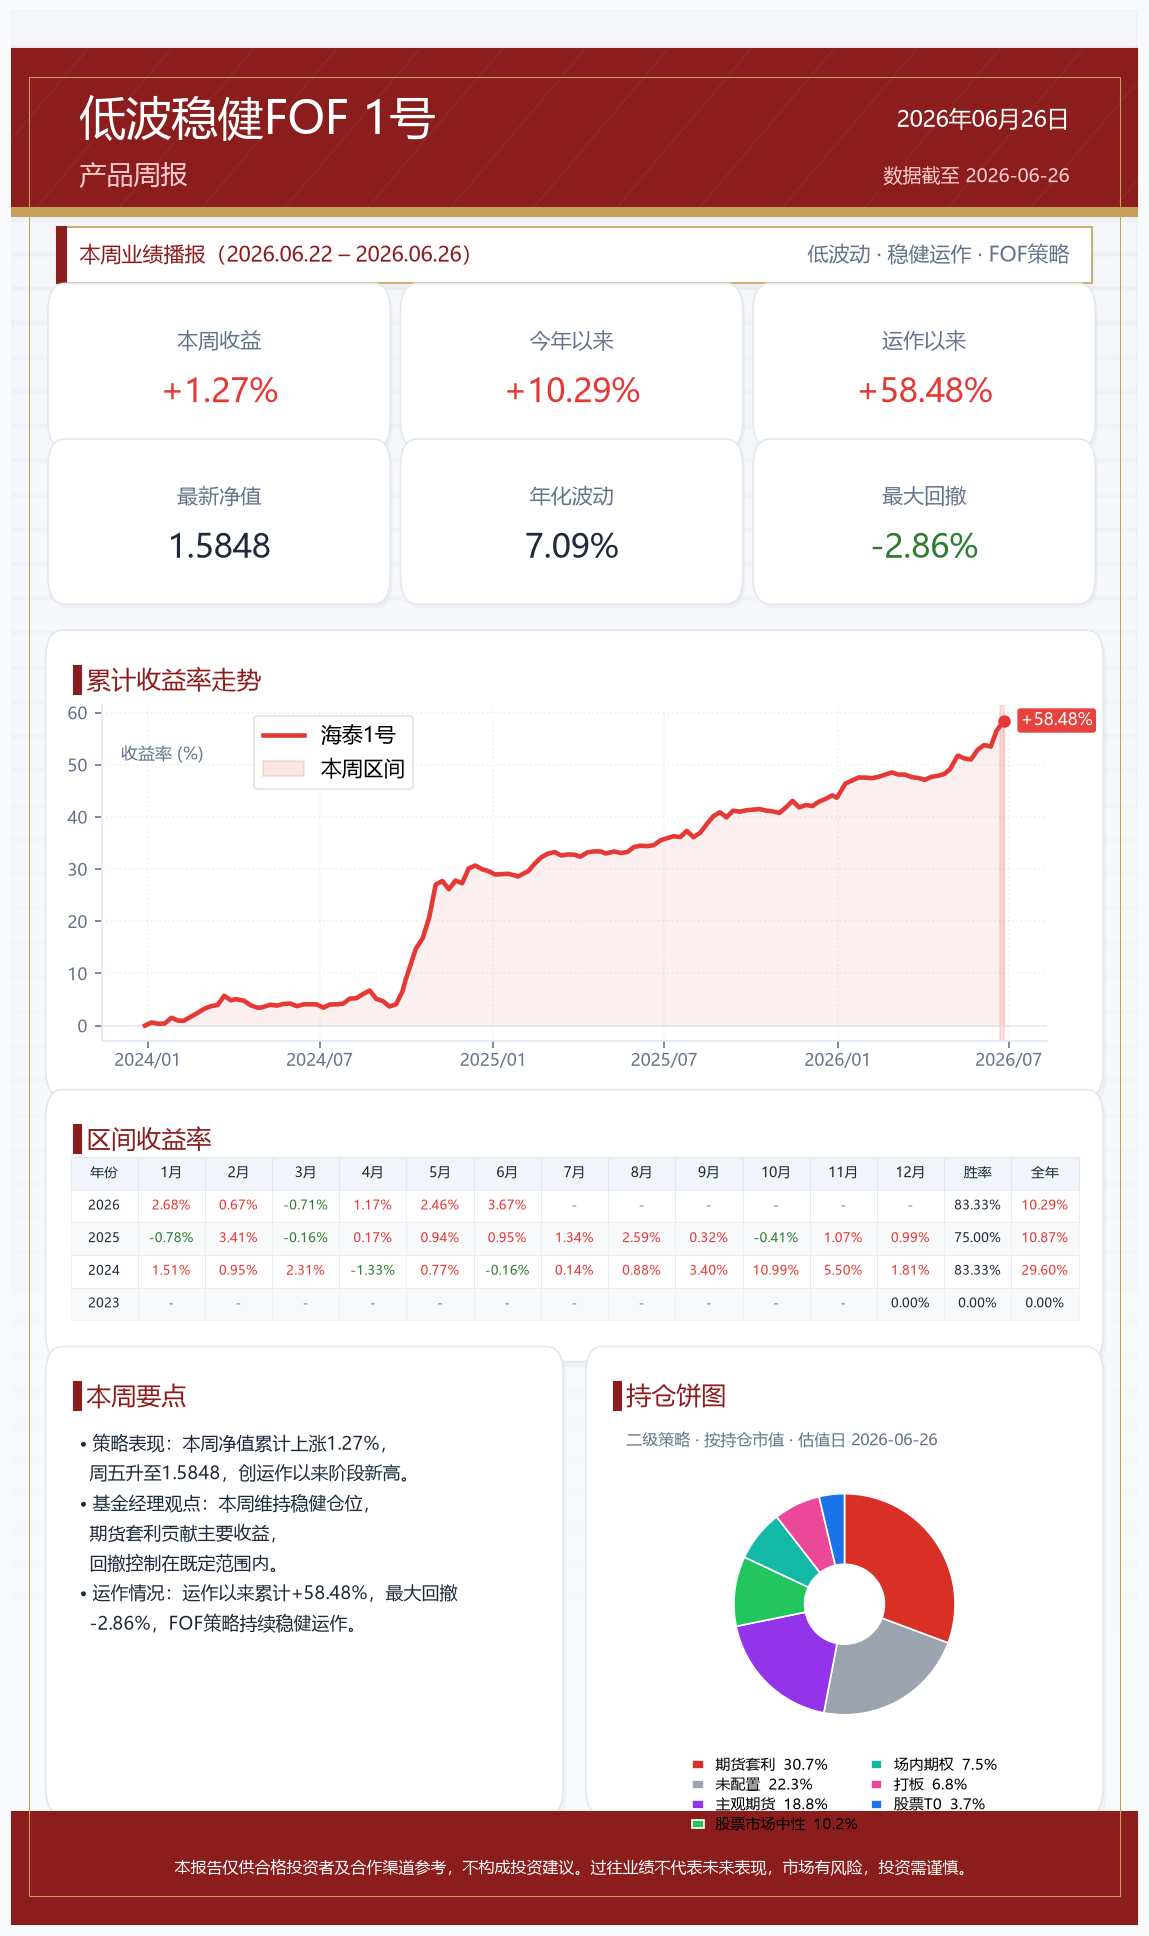
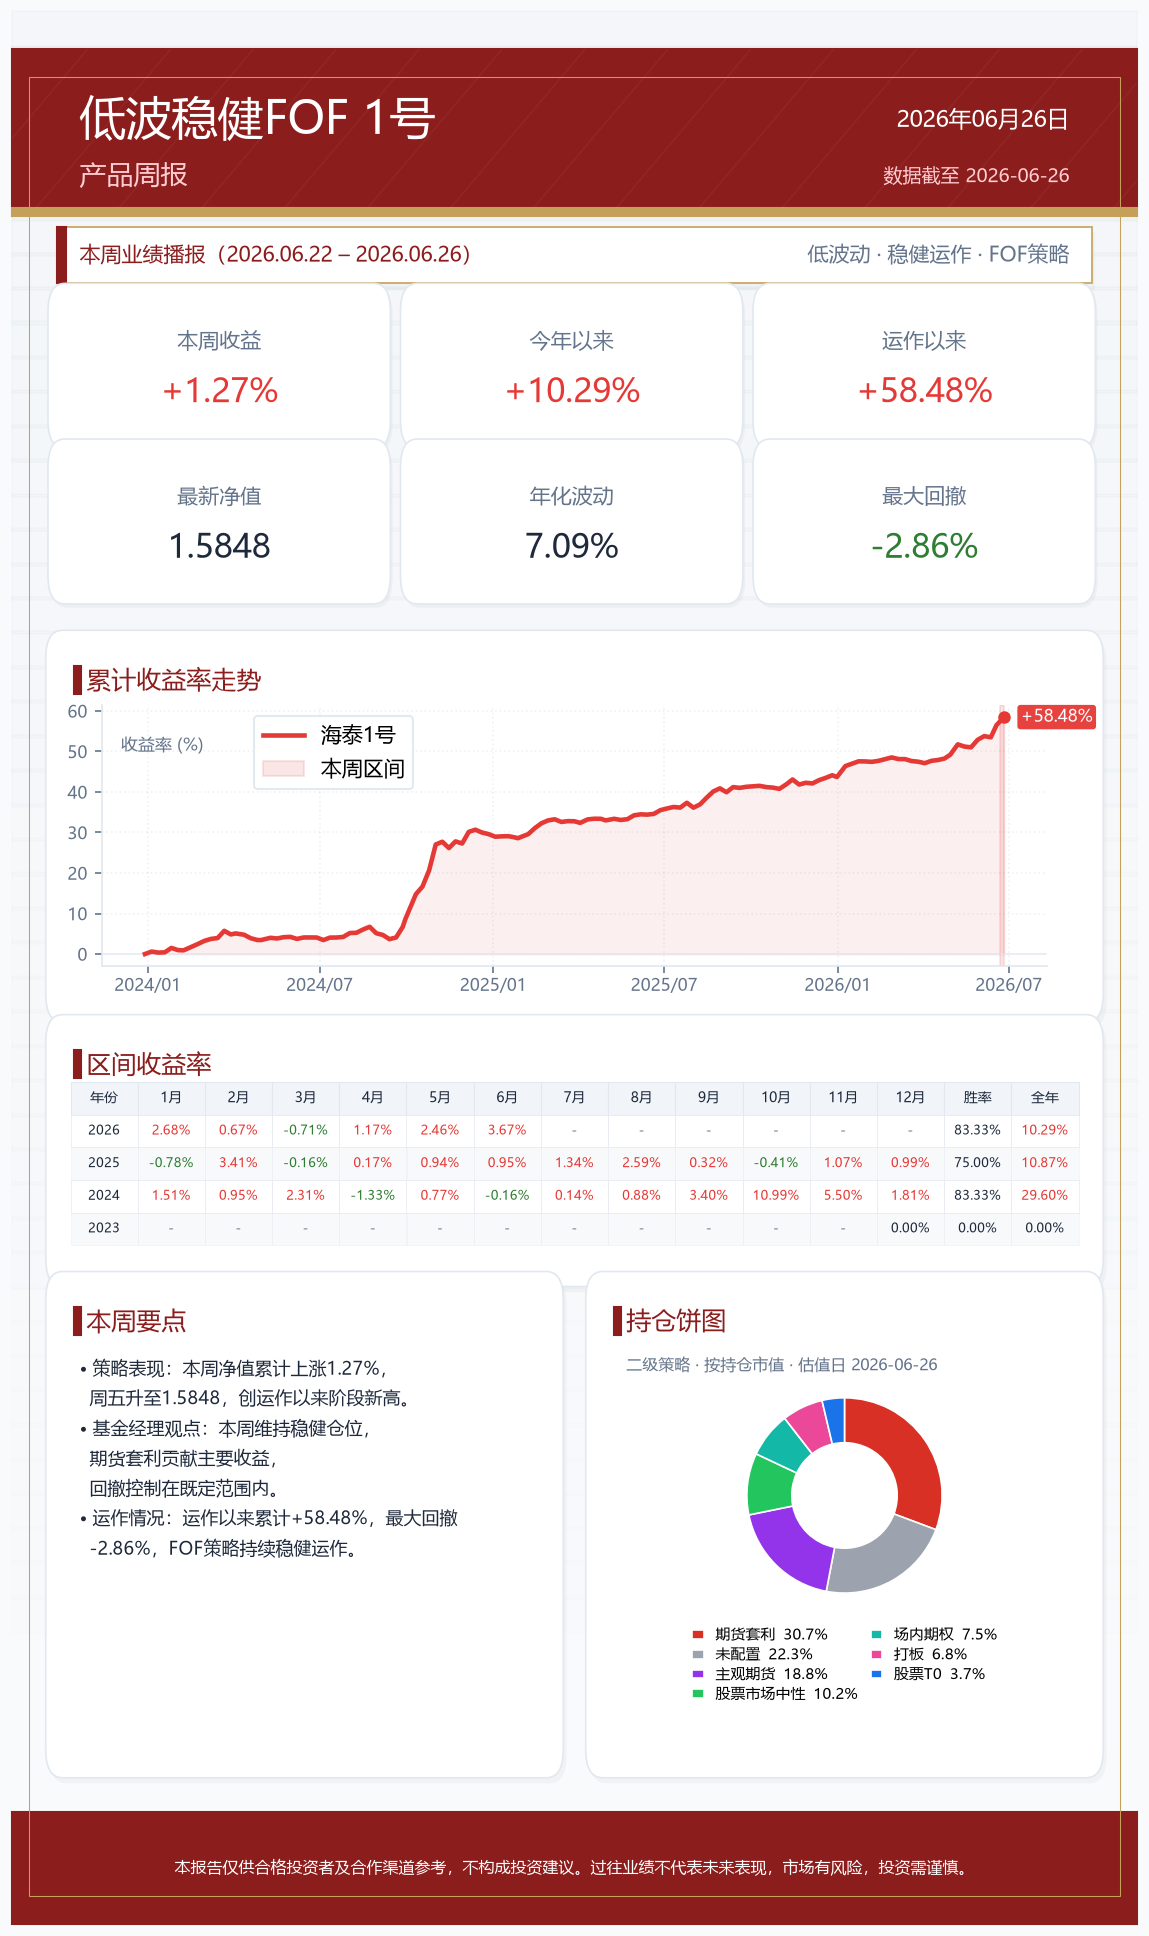
fix(ma): keep holdings-pie weekly report above the footer
The pie and color legend overflowed their card and were covered by the
dark-red disclaimer bar. Raise the holdings bottom row above the footer
(accounting for FancyBbox pad/shadow), give the pie a bit more height,
and draw the donut and legend in separate axes so both stay inside the
card. Leave the curve template unchanged and refresh the in-app example.

diff --git a/haitai_week_report/generate_fof_weekly_report.py b/haitai_week_report/generate_fof_weekly_report.py
@@ -987,34 +987,55 @@ def load_report_variant_file(path: str | None) -> dict:
 
 
 def draw_strategy_donut(fig, rect: list[float], slices: list[dict], fp) -> None:
-    """Donut of 二级策略 weights, legend with name and pie share."""
-    ax = fig.add_axes(rect)
-    ax.set_facecolor("none")
-    ax.axis("off")
+    """Donut of 二级策略 weights, legend with name and pie share. Stays inside rect."""
+    left, bottom, width, height = rect
+    if width <= 0 or height <= 0 or not slices:
+        return
+
     values = [float(item["value"]) for item in slices]
     names = [str(item["name"]) for item in slices]
     total = sum(values) or 1.0
     colors = [strategy_slice_color(name, i) for i, name in enumerate(names)]
     labels = [f"{name}  {value / total * 100:.1f}%" for name, value in zip(names, values)]
-    wedges, _ = ax.pie(
+
+    n_cols = 2 if len(slices) > 3 else 1
+    n_rows = int(np.ceil(len(slices) / n_cols))
+    legend_frac = min(0.42, max(0.30, 0.12 + n_rows * 0.06))
+    legend_h = height * legend_frac
+    pie_h = height - legend_h
+    fig_w, fig_h = fig.get_size_inches()
+    pie_w = min(width, pie_h * fig_h / fig_w) if fig_w else width
+    pie_x = left + (width - pie_w) / 2
+    pie_y = bottom + legend_h
+
+    pie_ax = fig.add_axes([pie_x, pie_y, pie_w, pie_h])
+    pie_ax.set_facecolor("none")
+    pie_ax.axis("off")
+    wedges, _ = pie_ax.pie(
         values,
         colors=colors,
         startangle=90,
         counterclock=False,
         wedgeprops={"width": 0.46, "edgecolor": "white", "linewidth": 0.8},
-        radius=0.72,
-        center=(0, 0.18),
+        radius=1.0,
+        center=(0, 0),
     )
-    ncol = 2 if len(slices) > 3 else 1
+    pie_ax.set_xlim(-1.18, 1.18)
+    pie_ax.set_ylim(-1.18, 1.18)
+    pie_ax.set_aspect("equal")
+
+    leg_ax = fig.add_axes([left, bottom, width, legend_h])
+    leg_ax.set_facecolor("none")
+    leg_ax.axis("off")
     legend_font = None
     if fp is not None and fp.get_file():
         legend_font = FontProperties(fname=fp.get_file(), size=7)
     elif fp is not None:
         legend_font = fp
     legend_kwargs = dict(
-        loc="upper center",
-        bbox_to_anchor=(0.5, 0.08),
-        ncol=ncol,
+        loc="center",
+        bbox_to_anchor=(0.5, 0.58),
+        ncol=n_cols,
         frameon=False,
         handlelength=0.8,
         handleheight=0.55,
@@ -1026,9 +1047,7 @@ def draw_strategy_donut(fig, rect: list[float], slices: list[dict], fp) -> None:
         legend_kwargs["prop"] = legend_font
     else:
         legend_kwargs["fontsize"] = 7
-    ax.legend(wedges, labels, **legend_kwargs)
-    ax.set_xlim(-1.25, 1.25)
-    ax.set_ylim(-0.95, 1.15)
+    leg_ax.legend(wedges, labels, **legend_kwargs)
 
 
 def ret_color(val: float) -> str:
@@ -1664,8 +1683,9 @@ def _make_weekly_report(
         draw_kpi_card(ax, x0 + i * (kpi_w + gap), kpi_row2_y, kpi_w, kpi_h, label, value, fp, color)
 
     if holdings_mode:
-        bottom_h = min(0.28, max(0.23, 0.055 + len(holdings_highlights) * 0.017))
-        bottom_y = 0.068
+        # Footer occupies y=0..0.06; FancyBbox pad/shadow extend ~0.013 below bottom_y.
+        bottom_h = min(0.28, max(0.25, 0.055 + len(holdings_highlights) * 0.017))
+        bottom_y = 0.088
         table_bottom = bottom_y + bottom_h + 0.012
         table_top = table_bottom + 0.125
         chart_bottom = table_top + 0.016
